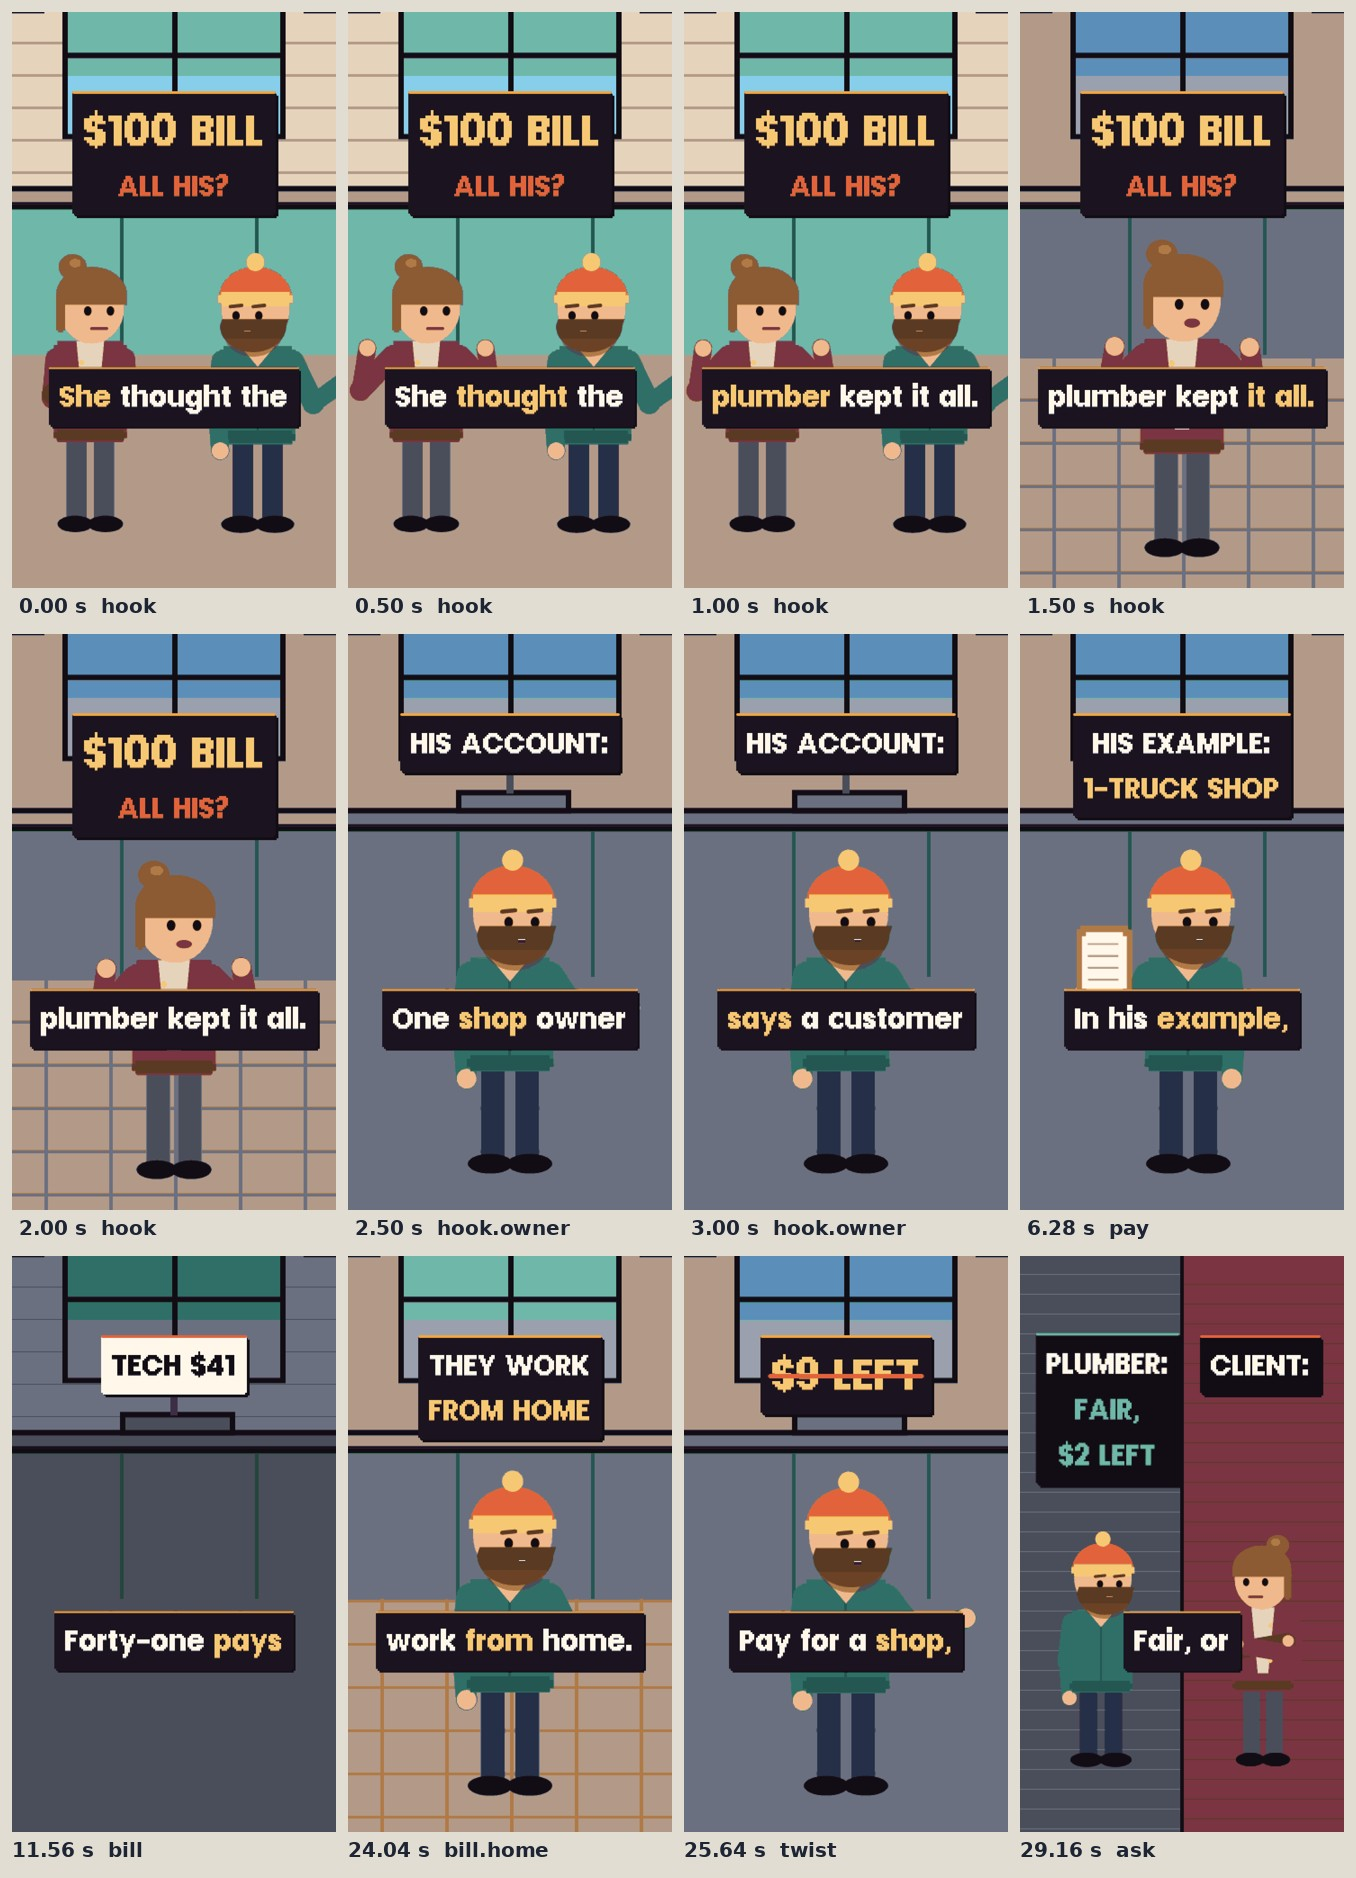
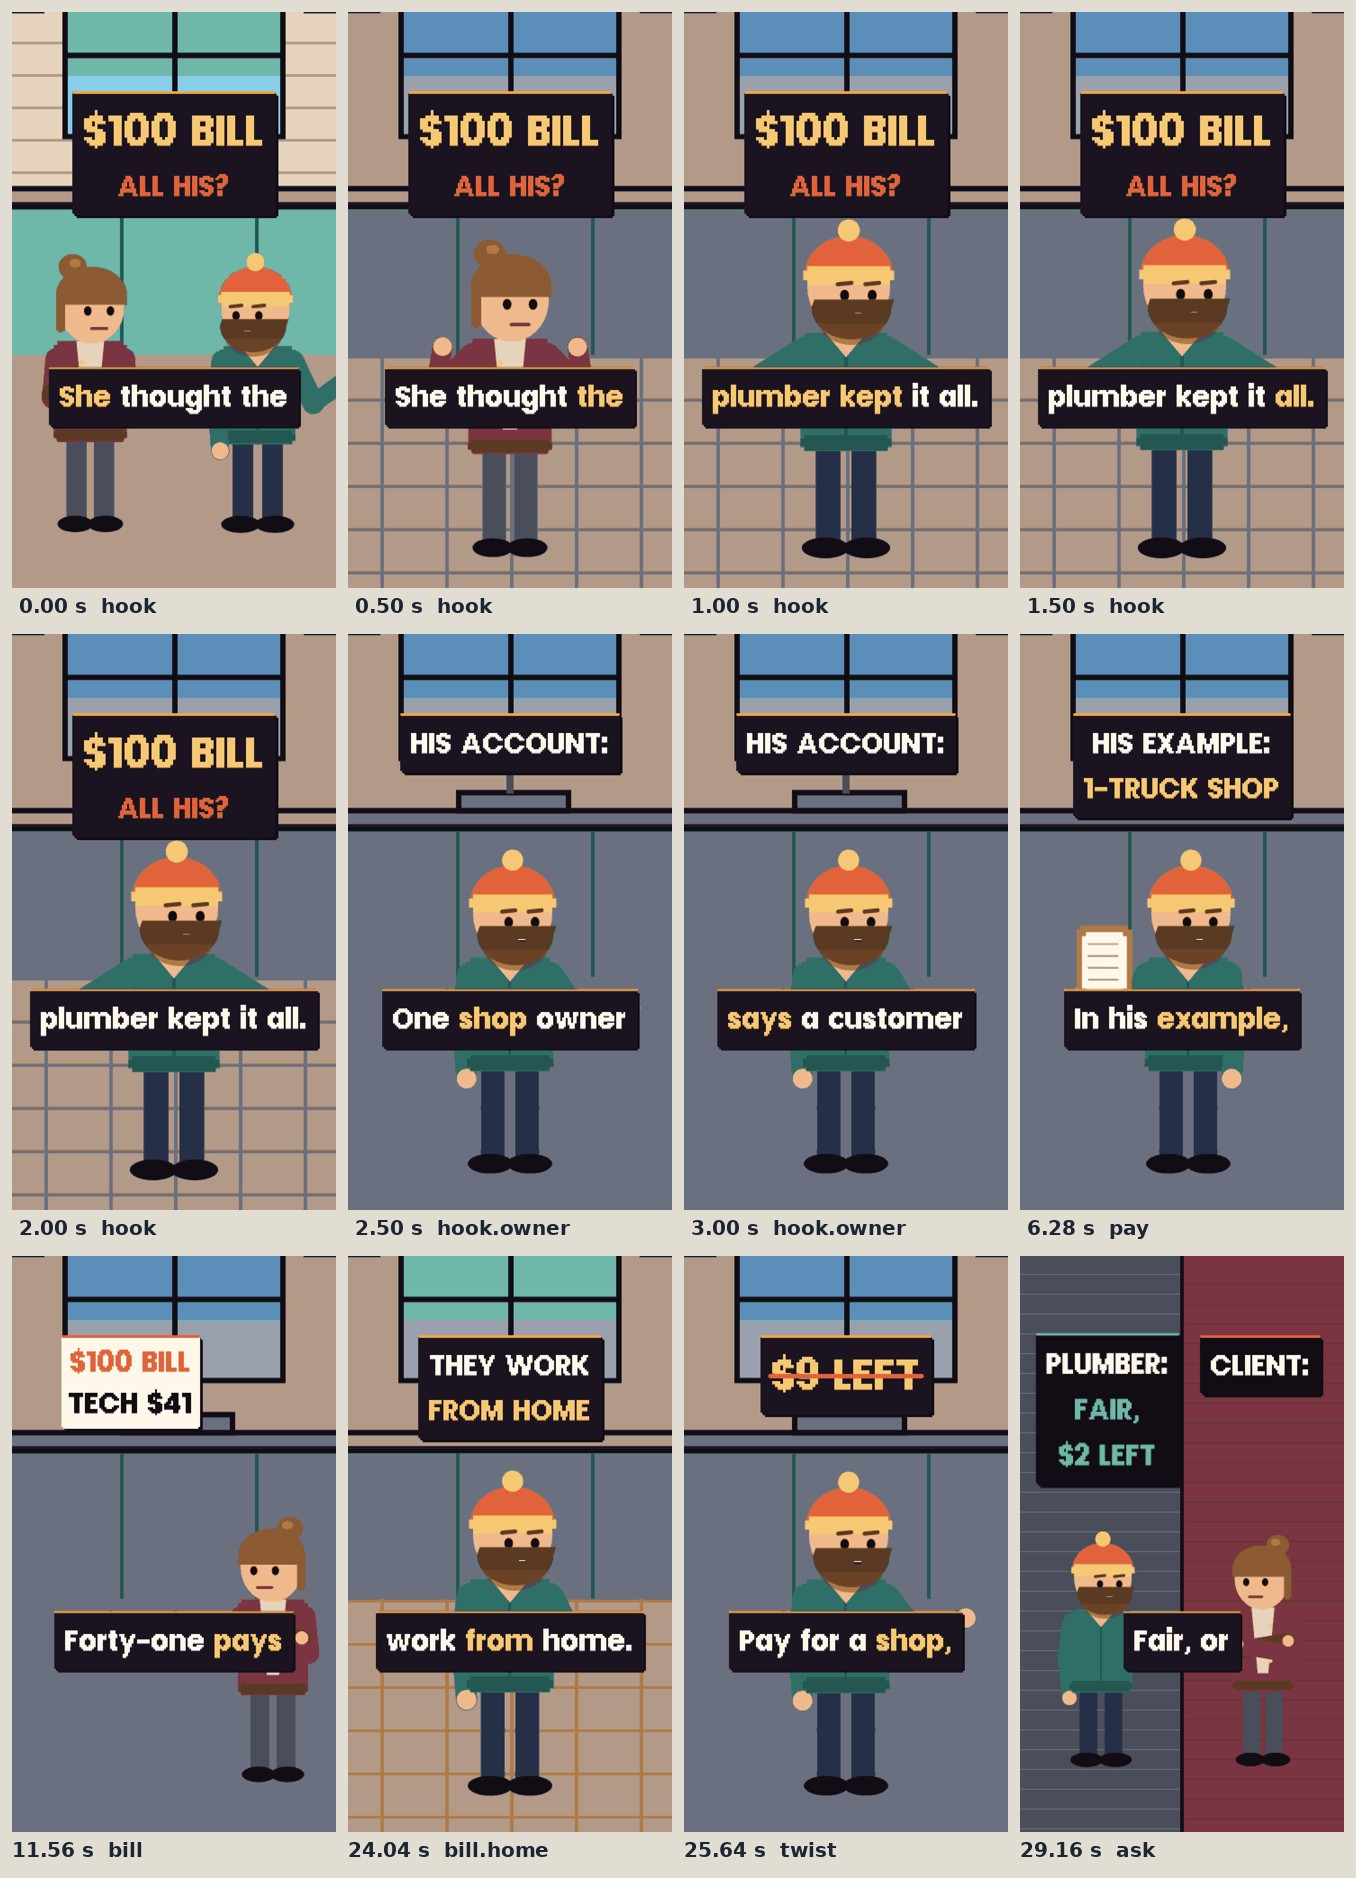
studio: where-100-goes gate round 0 (render critic PASS, viewer FAIL, facts FAIL); fix round 1 voice takes 4 and 5
Claude-Session: https://claude.ai/code/session_01XMn4eGSJdCQ9VjRvVrDSRQ

diff --git a/video/studio/videos/2026-12-01-where-100-goes/03_cues/cues.js b/video/studio/videos/2026-12-01-where-100-goes/03_cues/cues.js
@@ -1,1 +1,1 @@
-window.CUES = {"schema": "pnf.studio.cues.v1", "source": "whisper medium.en int8, re-spelled from script.md", "music": {"id": "rooms", "level": 0.16, "tune": "bounce"}, "duration": 33.98, "cues": [{"id": "hook", "level": 0, "quote": "She thought the plumber", "sfx": "pop", "shift": 0.0, "pin": null, "text": "Frame 0, close and settled, a kitchen: the homeowner left, arms folded, facing the plumber right, who holds the bill on a clipboard. Up top, big: $100 BILL in gold, under it in red: ALL HIS?. At 0.5 s she unfolds her arms and argues at him (the first change). On \"kept\" a plain cut to her alone, close, still arguing, the same plate.", "t": 0.0, "word": 0, "end": 5.68}, {"id": "hook.owner", "level": 1, "quote": "One shop owner says", "sfx": "blip", "shift": 0.0, "pin": null, "text": "A plain cut to the plumber, close, talking. The plate: HIS ACCOUNT:. On \"held\" a plain cut to the homeowner on the phone, cross, and the plate lands again with a second row in red: JOB ON HOLD.", "t": 2.3, "word": 7, "end": 5.68}, {"id": "pay", "level": 0, "quote": "In his example,", "sfx": "stamp", "shift": 0.0, "pin": null, "text": "A plain cut to the plumber, close, with the clipboard. The plate: HIS EXAMPLE: / 1-TRUCK SHOP. On \"nine\" it gives way to a stamp: OF EVERY $100 / $9 LEFT, the last row big and gold.", "payoff": true, "t": 5.68, "word": 19, "end": 10.96}, {"id": "bill", "level": 0, "quote": "Forty-one pays the tech", "sfx": "blip", "shift": 0.0, "pin": null, "text": "The bill fills the frame over the dimmed kitchen: a cream invoice, one row landing as each is said: TECH $41, then on \"Sixteen\" OFFICE $16, on \"eight\" TRUCK $8, on \"Twenty\" FEES $20, on \"Six\" INSURANCE $6.", "t": 10.96, "word": 32, "end": 25.04}, {"id": "bill.home", "level": 1, "quote": "And they work from home", "sfx": "whoosh", "shift": 0.0, "pin": null, "text": "A plain cut to the plumber in the kitchen, close, talking. The plate: THEY WORK / FROM HOME.", "t": 23.44, "word": 59, "end": 25.04}, {"id": "twist", "level": 0, "quote": "Pay for a shop", "sfx": "stamp", "shift": 0.0, "pin": null, "text": "A plain cut to the plumber, close, shrugging. The plate: $9 LEFT, struck through in red as he says \"shop\"; on \"two\" it gives way to a stamp: WITH A SHOP: / UNDER $2, the last row big and red.", "t": 25.04, "word": 64, "end": 28.56}, {"id": "ask", "level": 0, "quote": "Fair, or still too much?", "sfx": "blip", "shift": 0.0, "pin": null, "text": "The frame splits: the plumber on a slate left, the homeowner on wine right, arms folded. Left plate: PLUMBER: / FAIR, / $2 LEFT. Right plate: CLIENT: then on \"too\" TOO / MUCH, / $100 BILL under it.", "t": 28.56, "word": 75, "end": 33.98}, {"id": "ask.send", "level": 1, "quote": "Send this to whoever", "sfx": "blip", "shift": 0.0, "pin": null, "text": "The plumber points down at the viewer; the homeowner keeps her arms folded. Both plates hold. Ends 1 s after the last word.", "t": 31.14, "word": 80, "end": 33.98}]};
+window.CUES = {"schema": "pnf.studio.cues.v1", "source": "whisper medium.en int8, re-spelled from script.md", "music": {"id": "rooms", "level": 0.16, "tune": "bounce"}, "duration": 33.98, "cues": [{"id": "hook", "level": 0, "quote": "She thought the plumber", "sfx": "pop", "shift": 0.0, "pin": null, "text": "Frame 0, close and settled, a kitchen: the homeowner left, arms folded, facing the plumber right, who holds the bill on a clipboard. Up top, big: $100 BILL in gold, under it in red: ALL HIS?. At 0.5 s a plain cut to her alone, close, palms up at him (the first change). On \"kept\" a plain cut to the plumber alone, close, shrugging, the same plate.", "t": 0.0, "word": 0, "end": 5.68}, {"id": "hook.owner", "level": 1, "quote": "One shop owner says", "sfx": "blip", "shift": 0.0, "pin": null, "text": "A plain cut to the plumber, close, talking. The plate: HIS ACCOUNT:. On \"held\" a plain cut to the homeowner on the phone, cross, and the plate lands again with a second row in red: JOB ON HOLD.", "t": 2.2, "word": 7, "end": 5.68}, {"id": "pay", "level": 0, "quote": "In his example,", "sfx": "stamp", "shift": 0.0, "pin": null, "text": "A plain cut to the plumber, close, with the clipboard. The plate: HIS EXAMPLE: / 1-TRUCK SHOP. On \"nine\" it gives way to a stamp: OF EVERY $100 / $9 LEFT, the last row big and gold.", "payoff": true, "t": 5.68, "word": 19, "end": 10.96}, {"id": "bill", "level": 0, "quote": "Forty-one pays the tech", "sfx": "blip", "shift": 0.0, "pin": null, "text": "The bill on the left over the dimmed kitchen, the homeowner close on the right, arms folded until \"Twenty\", then they drop, and after the last row she gestures at the bill: a cream invoice headed $100 BILL in red, one row landing under it as each is said: TECH $41, then on \"Sixteen\" OFFICE $16, on \"eight\" TRUCK $8, on \"Twenty\" FEES $20, on \"Six\" INSURANCE $6.", "t": 10.96, "word": 32, "end": 25.04}, {"id": "bill.home", "level": 1, "quote": "And they work from home", "sfx": "whoosh", "shift": 0.0, "pin": null, "text": "A plain cut to the plumber in the kitchen, close, talking. The plate: THEY WORK / FROM HOME.", "t": 23.44, "word": 59, "end": 25.04}, {"id": "twist", "level": 0, "quote": "Pay for a shop", "sfx": "stamp", "shift": 0.0, "pin": null, "text": "A plain cut to the plumber, close, shrugging. The plate: $9 LEFT, struck through in red as he says \"shop\"; on \"two\" it gives way to a stamp: WITH A SHOP: / UNDER $2, the last row big and red.", "t": 25.04, "word": 64, "end": 28.56}, {"id": "ask", "level": 0, "quote": "Fair, or still too much?", "sfx": "blip", "shift": 0.0, "pin": null, "text": "The frame splits: the plumber on a slate left, the homeowner on wine right, arms folded. Left plate: PLUMBER: / FAIR, / $2 LEFT. Right plate: CLIENT: then on \"too\" TOO / MUCH, / $100 BILL under it.", "t": 28.56, "word": 75, "end": 33.98}, {"id": "ask.send", "level": 1, "quote": "Send this to whoever", "sfx": "blip", "shift": 0.0, "pin": null, "text": "The plumber points down at the viewer; the homeowner keeps her arms folded. Both plates hold. Ends 1 s after the last word.", "t": 31.16, "word": 80, "end": 33.98}]};

diff --git a/video/studio/videos/2026-12-01-where-100-goes/02_transcript/mouth.js b/video/studio/videos/2026-12-01-where-100-goes/02_transcript/mouth.js
@@ -1,1 +1,1 @@
[2 lines of base64/hex data omitted]

diff --git a/video/studio/videos/2026-12-01-where-100-goes/04_scene/scene.js b/video/studio/videos/2026-12-01-where-100-goes/04_scene/scene.js
@@ -144,6 +144,12 @@ Object.assign(window.SCENE.sections, {
         const rows = [['$100 BILL', 132, RED]].concat(all.slice(0, n)), o = {bg: CREAM, rule: RED, pad: 24, gap: 6, drop: 0.06, cx: 396};
         if (n === 1 && T < t0 + 0.06) plate(k, rows, 264, o);
         else stampPlate(k, rows, 264, ts[n - 1], o);
+        /* QA r1 and r2: the full card sat flat 1.3 s; after the last row a gold band reads down the five rows, one at a time */
+        const tSweep = ts[4] + 0.6;
+        if (n === 5 && T >= tSweep) {
+          const w = k.measure('INSURANCE $6', {size: 132}) + 48, top = 264 + 24 + 138 - 6, y = top + Math.floor(((T - tSweep) * 2.4) % 5) * 138;
+          k.shape(k.rectPts(Math.round((396 - w / 2) / 3) * 3, y, Math.round(w / 3) * 3, 144, 0), {fill: GOLD, line: false, alpha: 0.45});
+        }
       } else {
         k.cut(tHome);
         kitchen(k, 0.2, 2);

diff --git a/video/studio/videos/2026-12-01-where-100-goes/01_voice/script.md b/video/studio/videos/2026-12-01-where-100-goes/01_voice/script.md
@@ -1,4 +1,4 @@
-# Script: Where $100 of the bill goes (v4 invoice, r2, Nov 11; source PHC Pros, Mar 1, 2022, his own account and his own example; pre-voice facts r0 PASS, its advisories taken: office help, the accountant, "he says" on the shop line)
+# Script: Where $100 of the bill goes (v4 invoice, r3 after viewer r0: 'no rent' says why it matters, the owner's move is the last line, the send line moves to the caption; r2, Nov 11; source PHC Pros, Mar 1, 2022, his own account and his own example; pre-voice facts r0 PASS, its advisories taken: office help, the accountant, "he says" on the shop line)
 
 [conversational] She thought the plumber kept it all. One shop owner says a customer held up his job over that.
 
@@ -6,6 +6,6 @@ In his example, a one-truck shop keeps about nine dollars of every hundred.
 
 Forty-one pays the tech. Sixteen pays the office help, eight the truck. Twenty covers rules, phones, bank fees and the accountant. Six, insurance and the home office.
 
-And they work from home. Pay for a shop, and he says it's under two dollars.
+And that's with no rent. Pay for a shop, and he says it's under two dollars.
 
-Fair, or still too much? Send this to whoever calls it profit.
+Fair, or still too much? Show customers this before they ask.

diff --git a/video/studio/videos/2026-12-01-where-100-goes/03_cues/cues.md b/video/studio/videos/2026-12-01-where-100-goes/03_cues/cues.md
@@ -17,7 +17,7 @@ stamp: OF EVERY $100 / $9 LEFT, the last row big and gold.
 
 ## bill "Forty-one pays the tech" [sfx: blip]
 The bill on the left over the dimmed kitchen, the homeowner close on the right, arms folded until "Twenty", then they drop, and after the last row she gestures at the bill: a cream invoice headed $100 BILL in red, one row landing under it as each is said: TECH $41, then on
-"Sixteen" OFFICE $16, on "eight" TRUCK $8, on "Twenty" FEES $20, on "Six" INSURANCE $6.
+"Sixteen" OFFICE $16, on "eight" TRUCK $8, on "Twenty" FEES $20, on "Six" INSURANCE $6; then a gold band steps down the five rows, one at a time, until the cut.
 
 ## bill.home "And they work from home" [sfx: whoosh]
 A plain cut to the plumber in the kitchen, close, talking. The plate: THEY WORK / FROM HOME.
